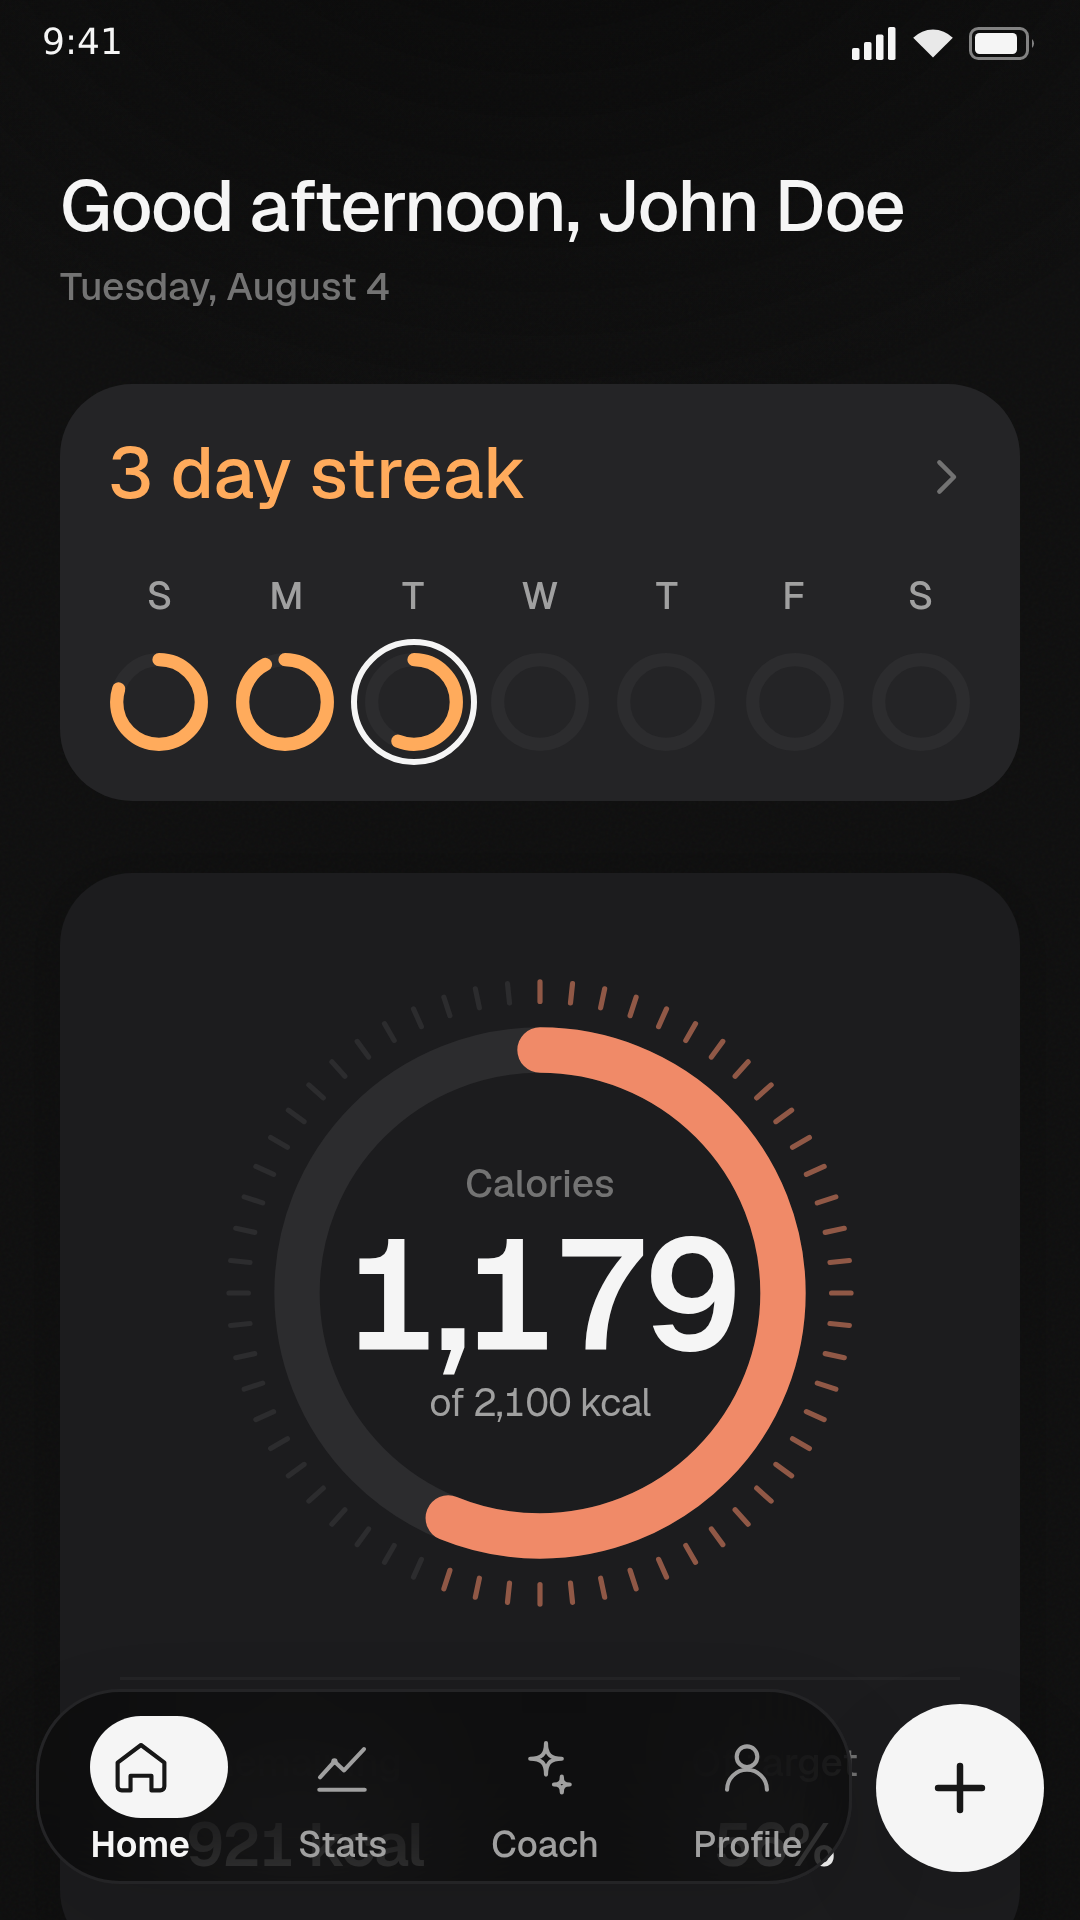
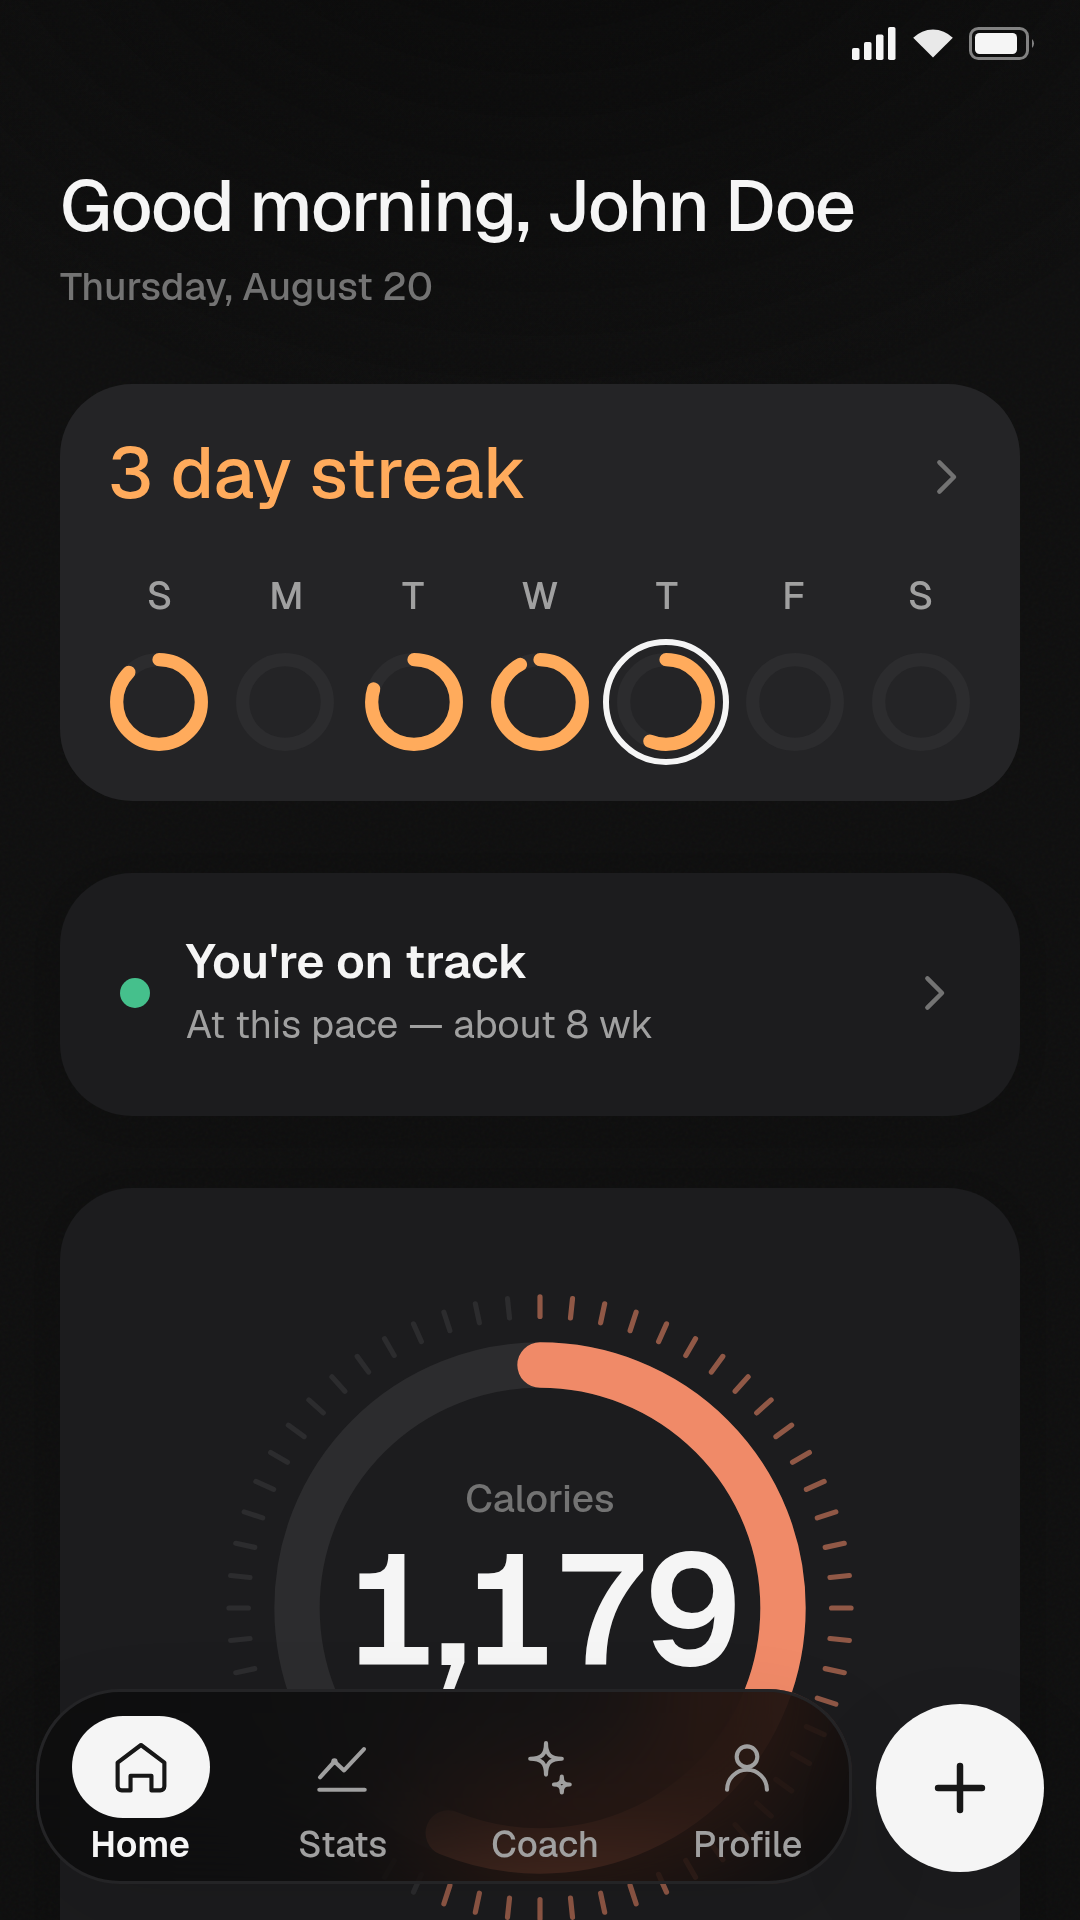
Свежие снимки экранов и строка про цель

diff --git a/index.html b/index.html
@@ -451,6 +451,9 @@ footer{ border-top:1px solid var(--border); padding-block:clamp(3rem,5vw,4rem) 2
             month,</strong> not just the shape of today.</span></li>
           <li><b>UNITS</b><span><strong>Metric and imperial,</strong> whichever way you
             think about food.</span></li>
+          <li><b>GOAL</b><span><strong>The home screen follows your goal:</strong> calories
+            lead when you are losing weight, protein when you are building muscle — and one
+            card answers whether you are on track.</span></li>
         </ul>
       </div>
 
